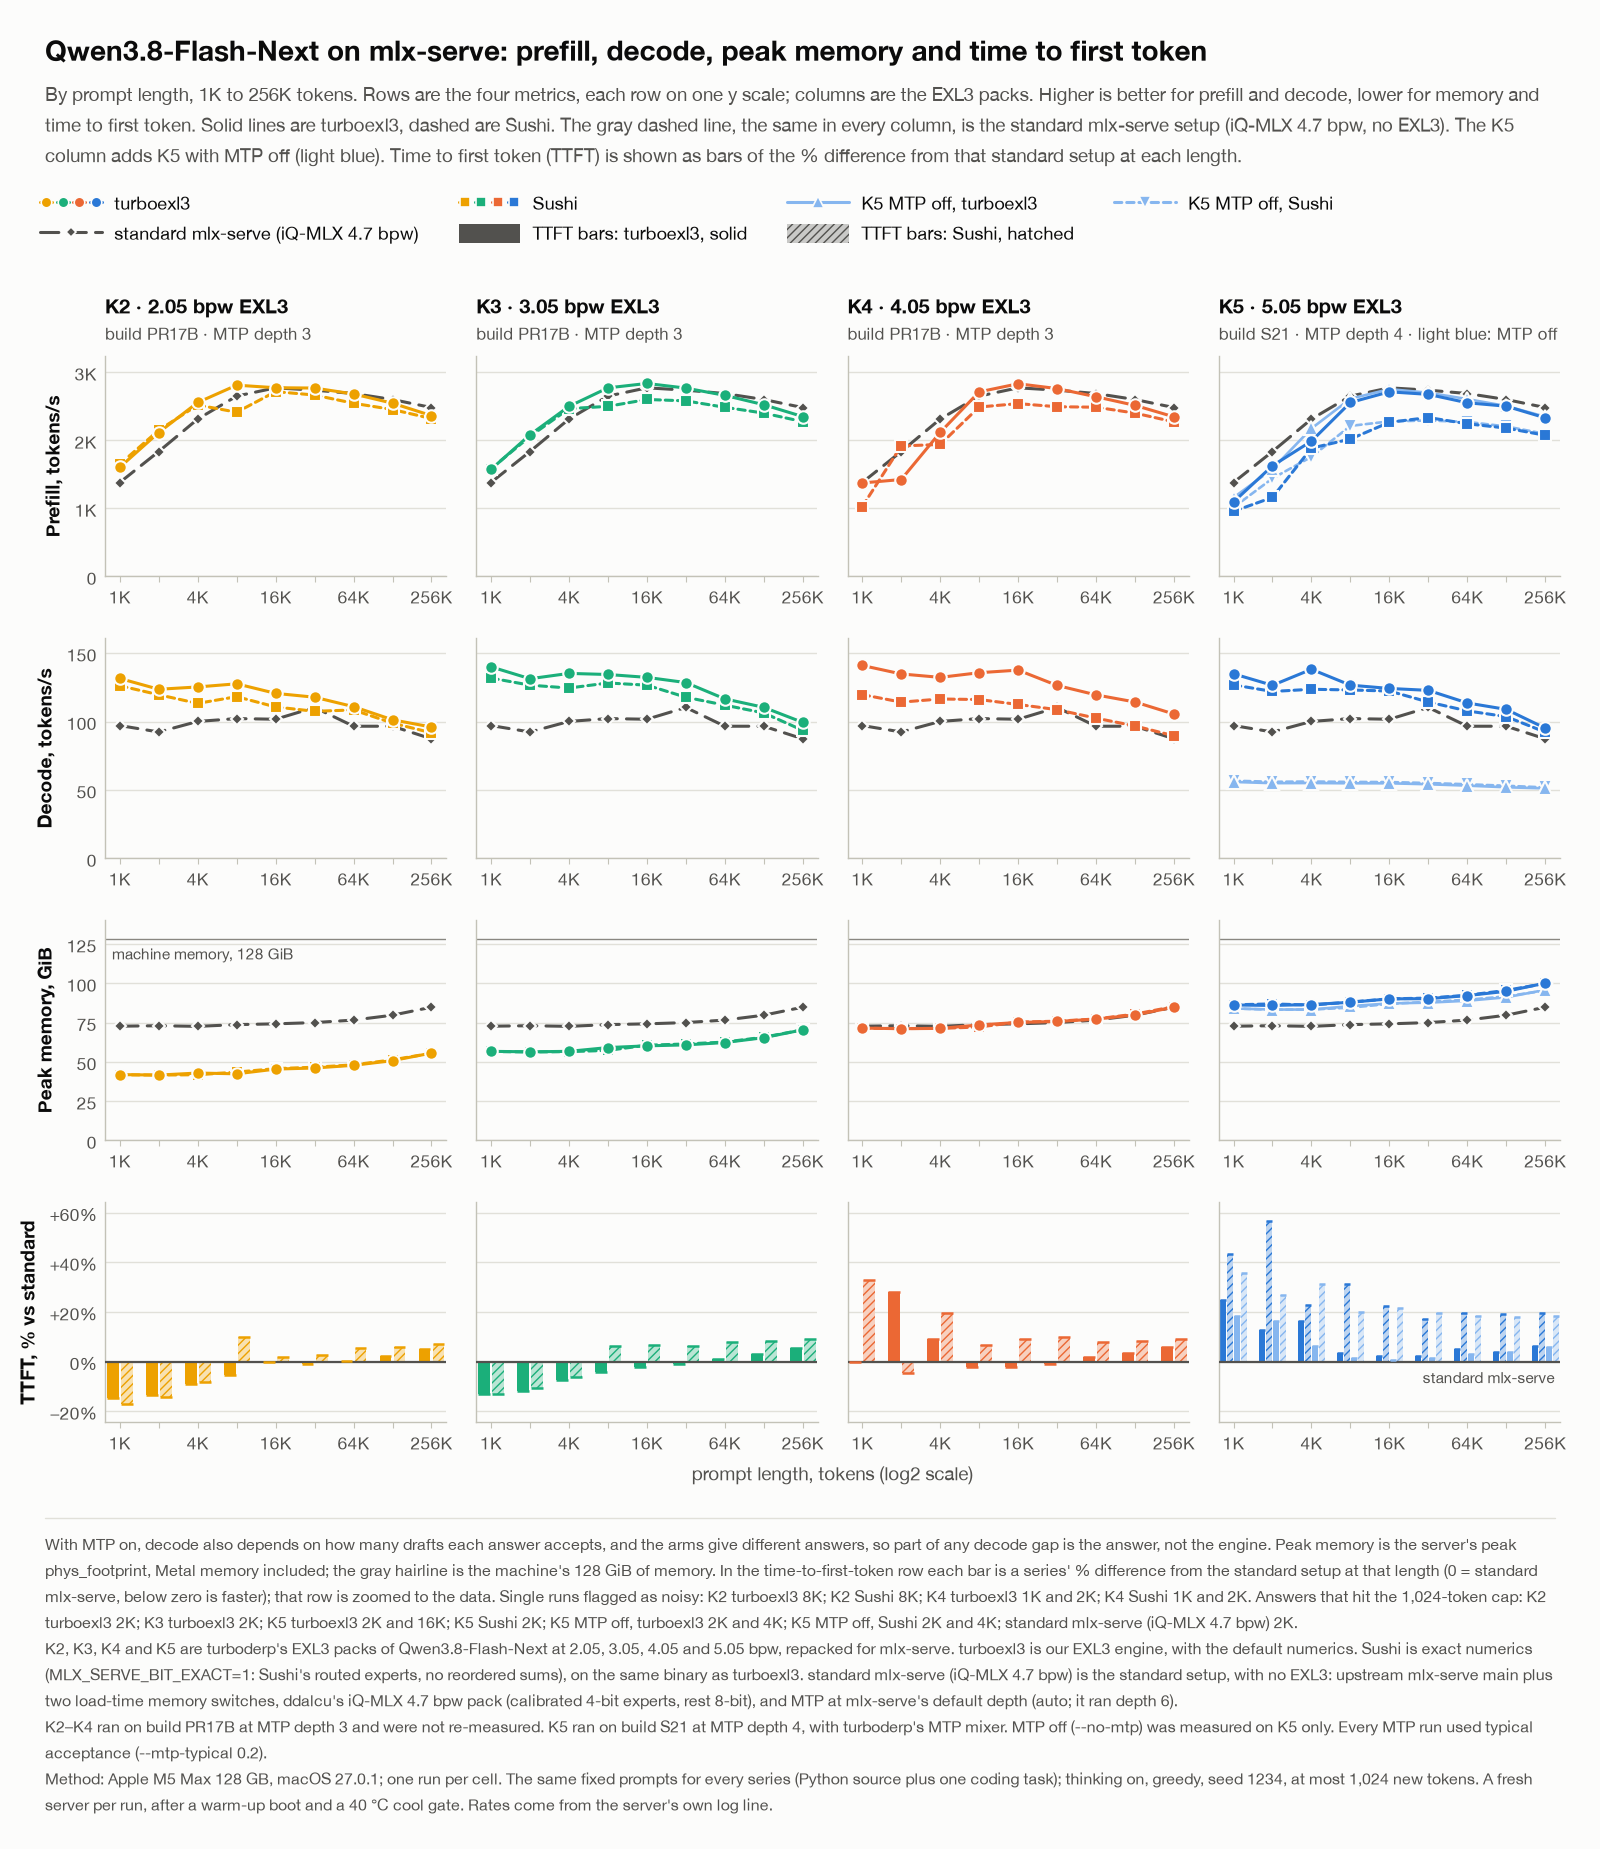
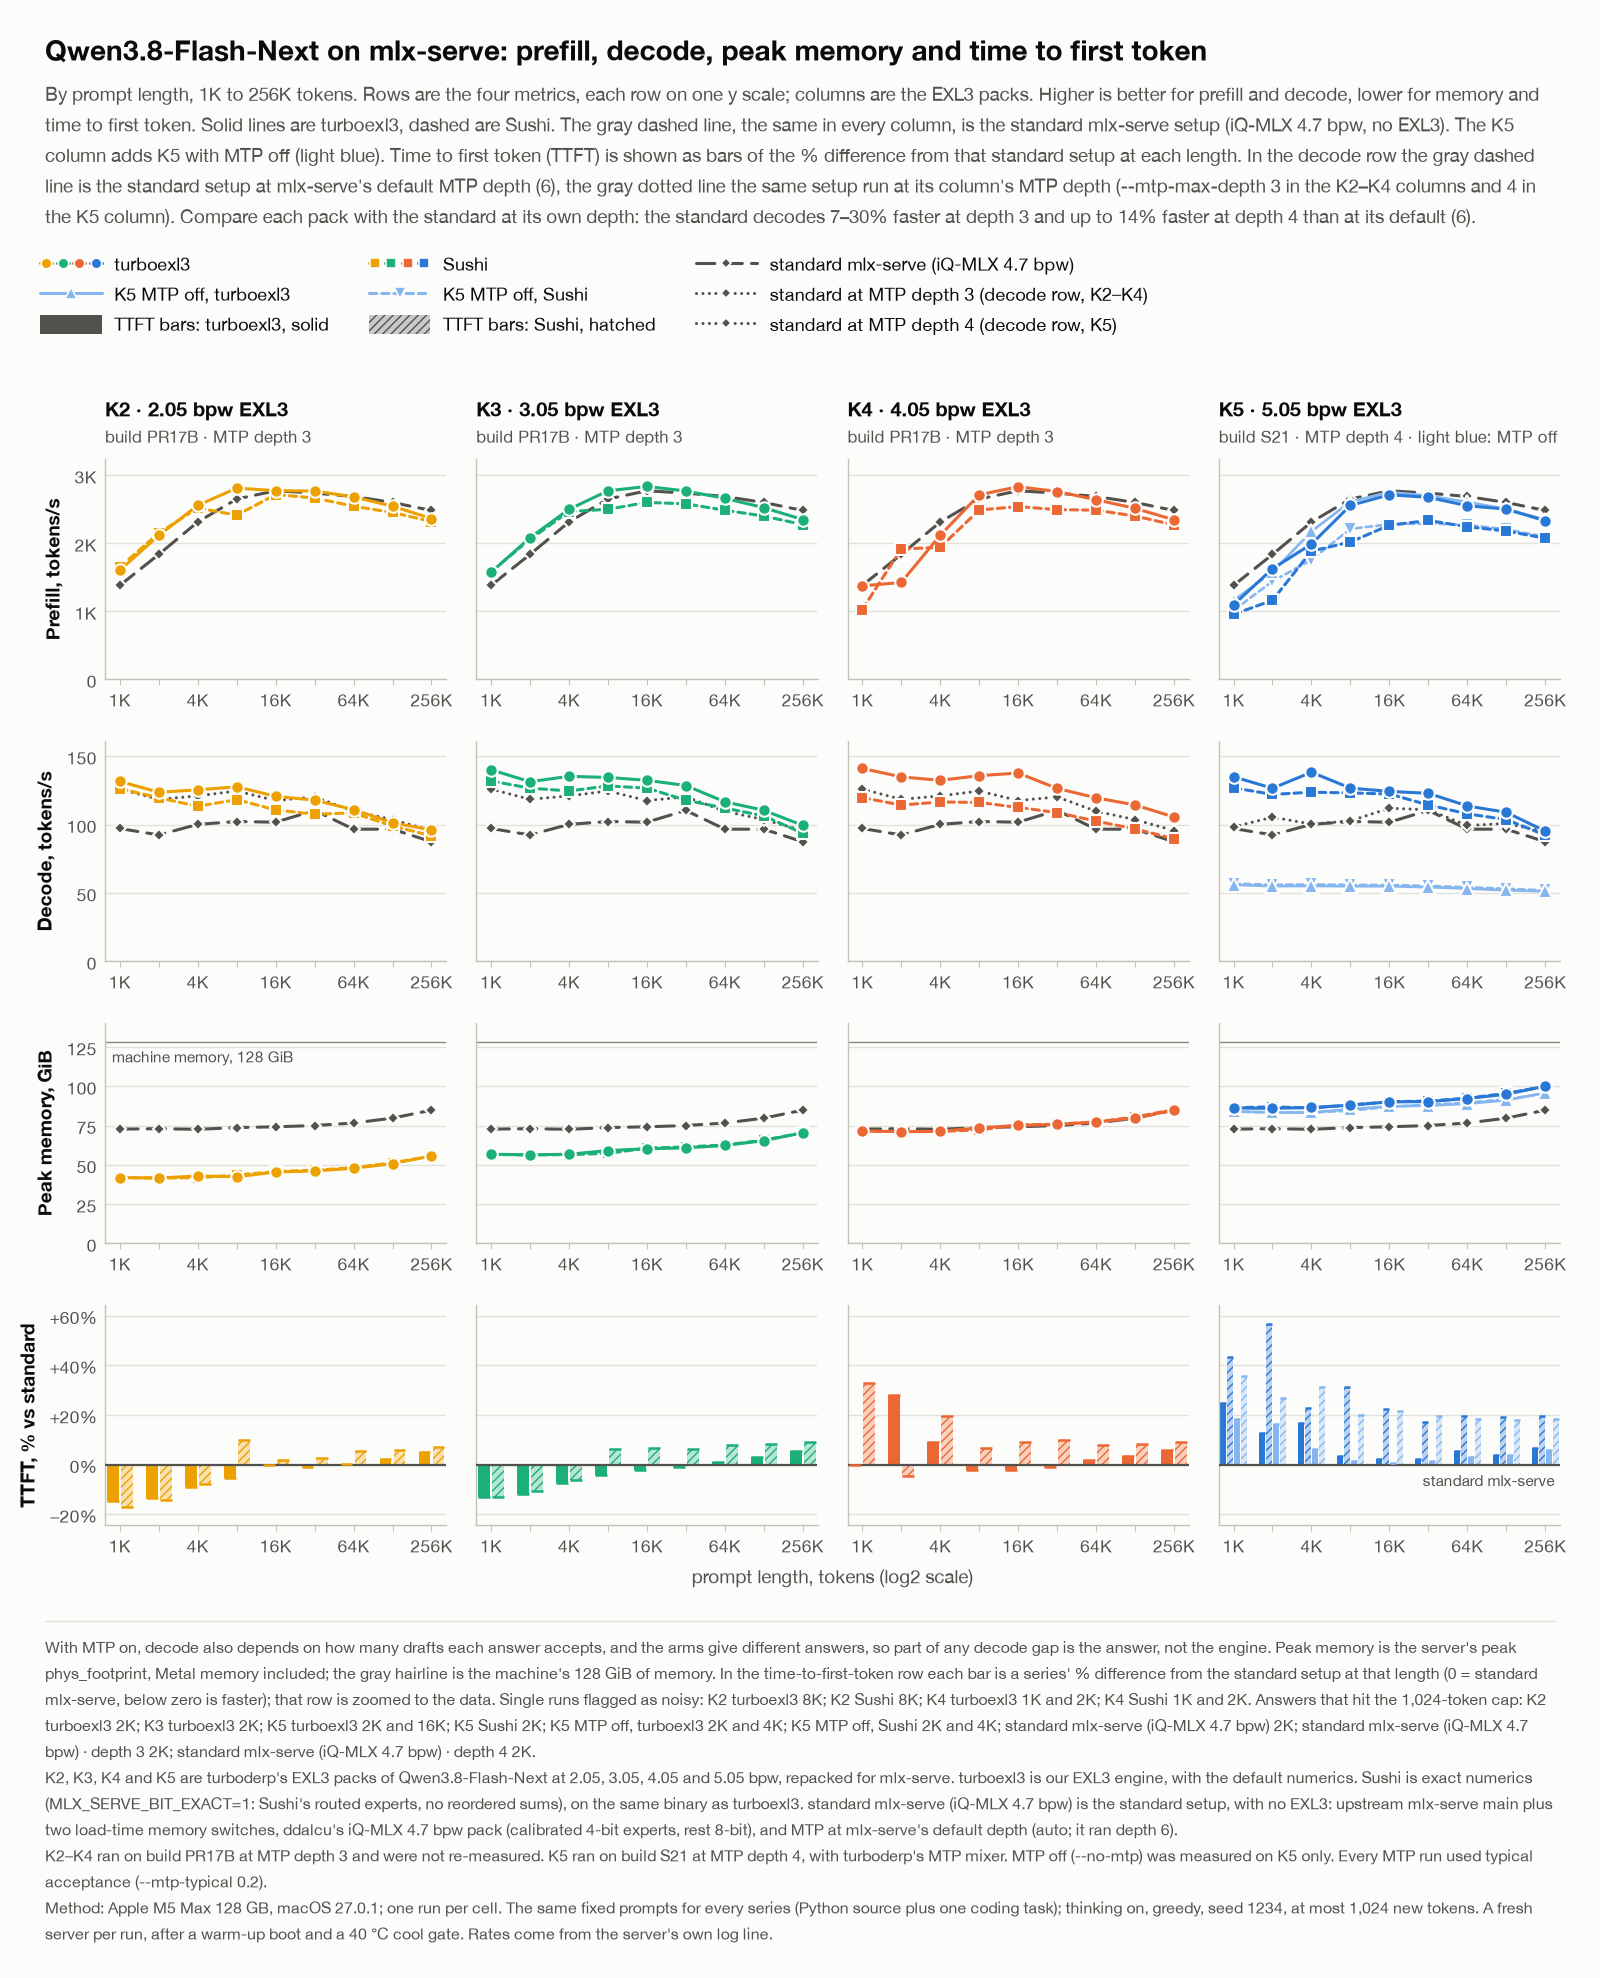
docs: the standard setup at the EXL3 runs' MTP depths
ddalcu's iQ-MLX 4.7 bpw pack also ran at --mtp-max-depth 3 and 4 (windows 2523 and 2524: the same binary and prompts as
its default-depth run). It decodes 7 to 30% faster at depth 3 than at mlx-serve's default (6). RESULTS.md gets a table
of the three depths and the equal-depth comparisons for the turboexl3 and Sushi arms. The decode and acceptance charts
draw the fixed-depth runs as their own lines, and the charts that compare against the default-depth run say so.

diff --git a/docs/RESULTS.md b/docs/RESULTS.md
@@ -80,7 +80,9 @@ MLX_SERVE_GPU_CEILING_MB=114688 MLX_SERVE_CACHE_LIMIT=2147483648`. The rates com
   75.3 GB without the n-gram table. It ran at mlx-serve's default MTP depth (auto: it ran depth 6) with
   `--mtp-typical 0.2`, one arm, from a copy whose `generation_config.json` gained
   `default_chat_template_kwargs: {"enable_thinking": true}`, which the EXL3 repacks carry, so every column renders the
-  same prompt. It replaces ddalcu's uncalibrated mixed 4/8-bit pack, which he flagged as bad.
+  same prompt. It replaces ddalcu's uncalibrated mixed 4/8-bit pack, which he flagged as bad. It also ran at the EXL3
+  runs' fixed depths, `--mtp-max-depth 3` and `4`, on the same binary and prompts: see
+  [the standard setup at fixed MTP depths](#the-standard-setup-at-fixed-mtp-depths).
 - `*`: the answer reached the 1,024-token cap. `†`: a single run flagged as noisy (K2 8K, K4 1K and 2K), not re-run. With
   MTP, a decode rate also depends on how many drafts its answer accepts, and the arms give different answers.
 - MTP off was measured on K5 only.
@@ -126,6 +128,39 @@ MTP off (`--no-mtp`), tok/s:
 | 64K | 64,987 | 2,269.8 | 2,604.9 | 54.2 | 53.2 |
 | 128K | 129,949 | 2,203.3 | 2,503.1 | 53.1 | 52.0 |
 | 256K | 258,992 | 2,094.2 | 2,345.8 | 51.9 | 51.2 |
+
+### The standard setup at fixed MTP depths
+
+The iQ-MLX 4.7 bpw pack on the same binary and prompts, at `--mtp-max-depth 3` and `4` with `--mtp-typical 0.2`, beside
+its run at the default depth. It decodes 7 to 30% faster at depth 3 than at its default, so the decode columns above
+overstate the EXL3 lead at equal depth.
+
+Decode, tok/s (MTP on):
+
+| prompt | tokens | depth 3 | depth 4 | depth 6 (default) |
+|---|---:|---:|---:|---:|
+| 1K | 1,031 | 125.9 | 98.2 | 97.1 |
+| 2K | 2,013 | 118.4\* | 105.4\* | 92.4\* |
+| 4K | 4,025 | 120.9 | 100.3 | 100.1 |
+| 8K | 8,100 | 124.5 | 102.7 | 102.2 |
+| 16K | 16,275 | 117.5 | 111.9 | 101.7 |
+| 32K | 32,424 | 120.2 | 110.8 | 110.3 |
+| 64K | 64,987 | 109.7 | 99.3 | 96.6 |
+| 128K | 129,949 | 103.6 | 100.8 | 96.6 |
+| 256K | 258,992 | 95.6 | 94.7 | 87.4 |
+| per-draft acceptance, mean | | 86.1% | 84.9% | 81.5% |
+| tokens per round, mean | | 3.47 | 3.71 | 4.13 |
+
+At equal depth, the turboexl3 arms against the standard setup:
+
+- **Depth 3:** K2 is level, from 2.2% slower to 4.4% faster. K3 is 4.0 to 12.6% faster, and K4 5.2 to 17.1% faster. K5's
+  depth-3 run (build PR17B, the pack's earlier MTP mixer: 129.5, 124.6, 129.5, 123.6, 119.6, 119.4, 110.8, 105.8 and
+  95.9 tok/s from 1K to 256K) is level, from 0.7% slower to 7.1% faster.
+- **Depth 4:** K5 on S21 is 0.5 to 37.8% faster than the standard setup, but depth 4 is a slower setting for the standard
+  setup than depth 3 at every length.
+
+The Sushi arms, at depth 3: K2 is 10.6% slower to 1.0% faster, K3 2.1% slower to 7.7% faster, K4 3.6 to 9.6% slower, and
+K5's depth-3 run 6.8% slower to 0.3% faster. These ranges leave out the runs marked `†`.
 
 ## Coding evals
 
